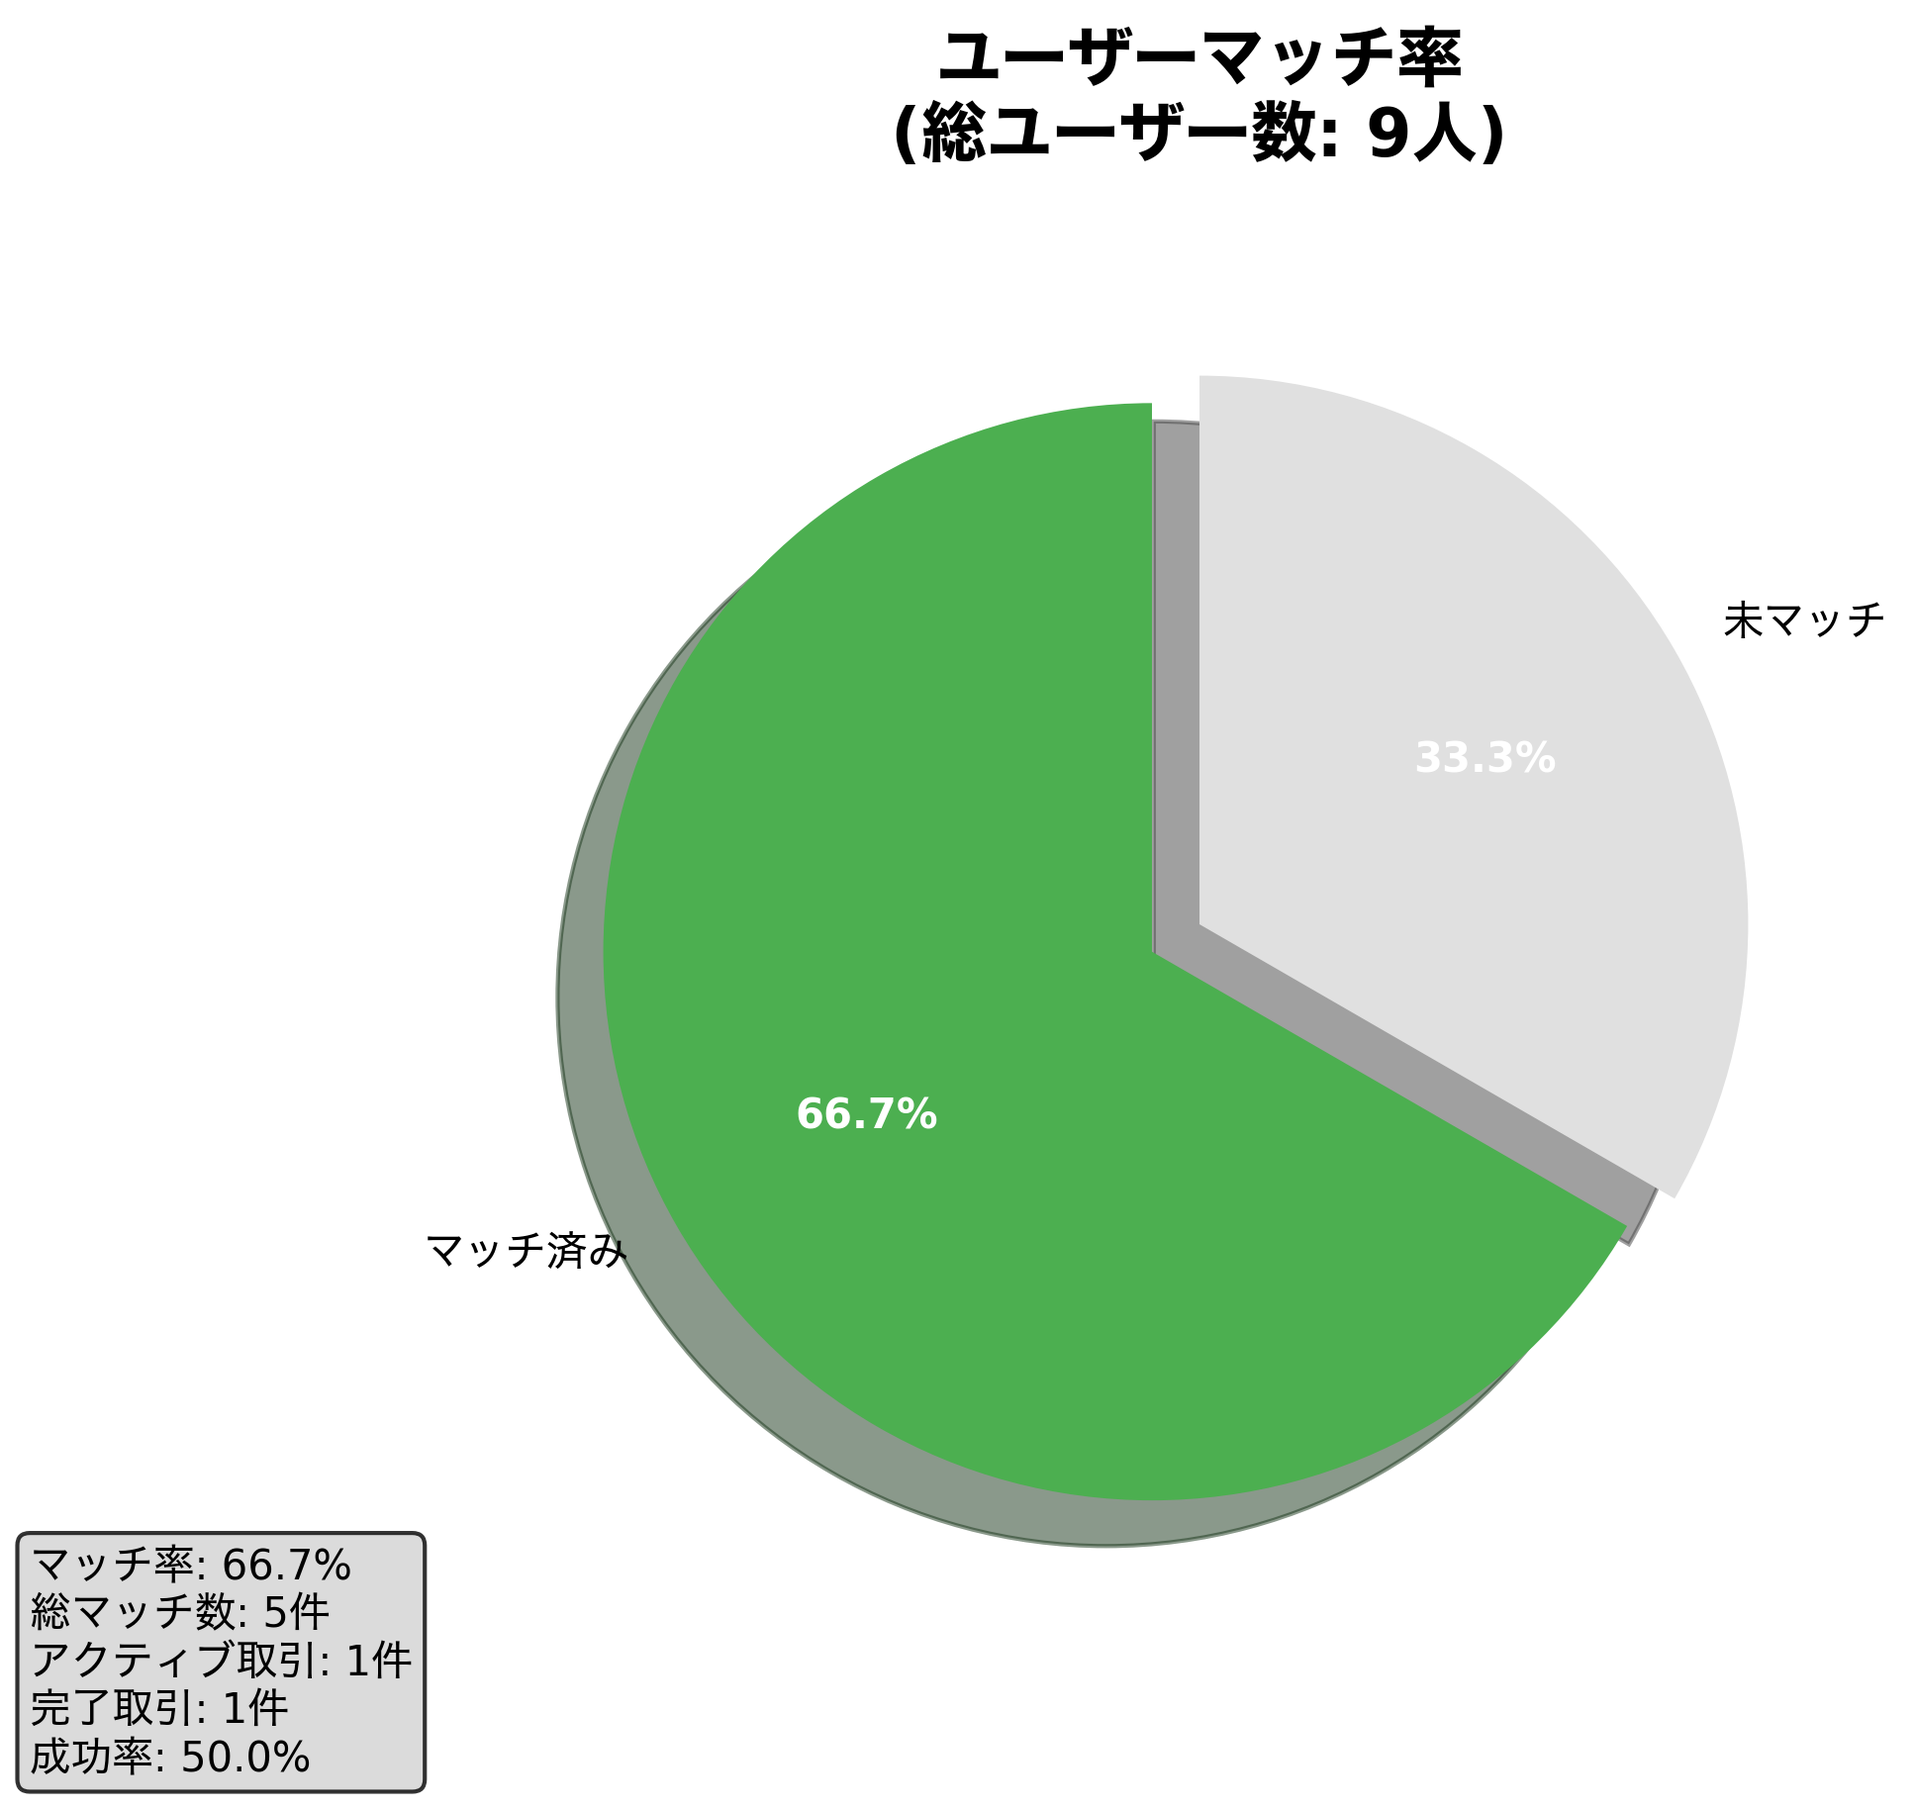
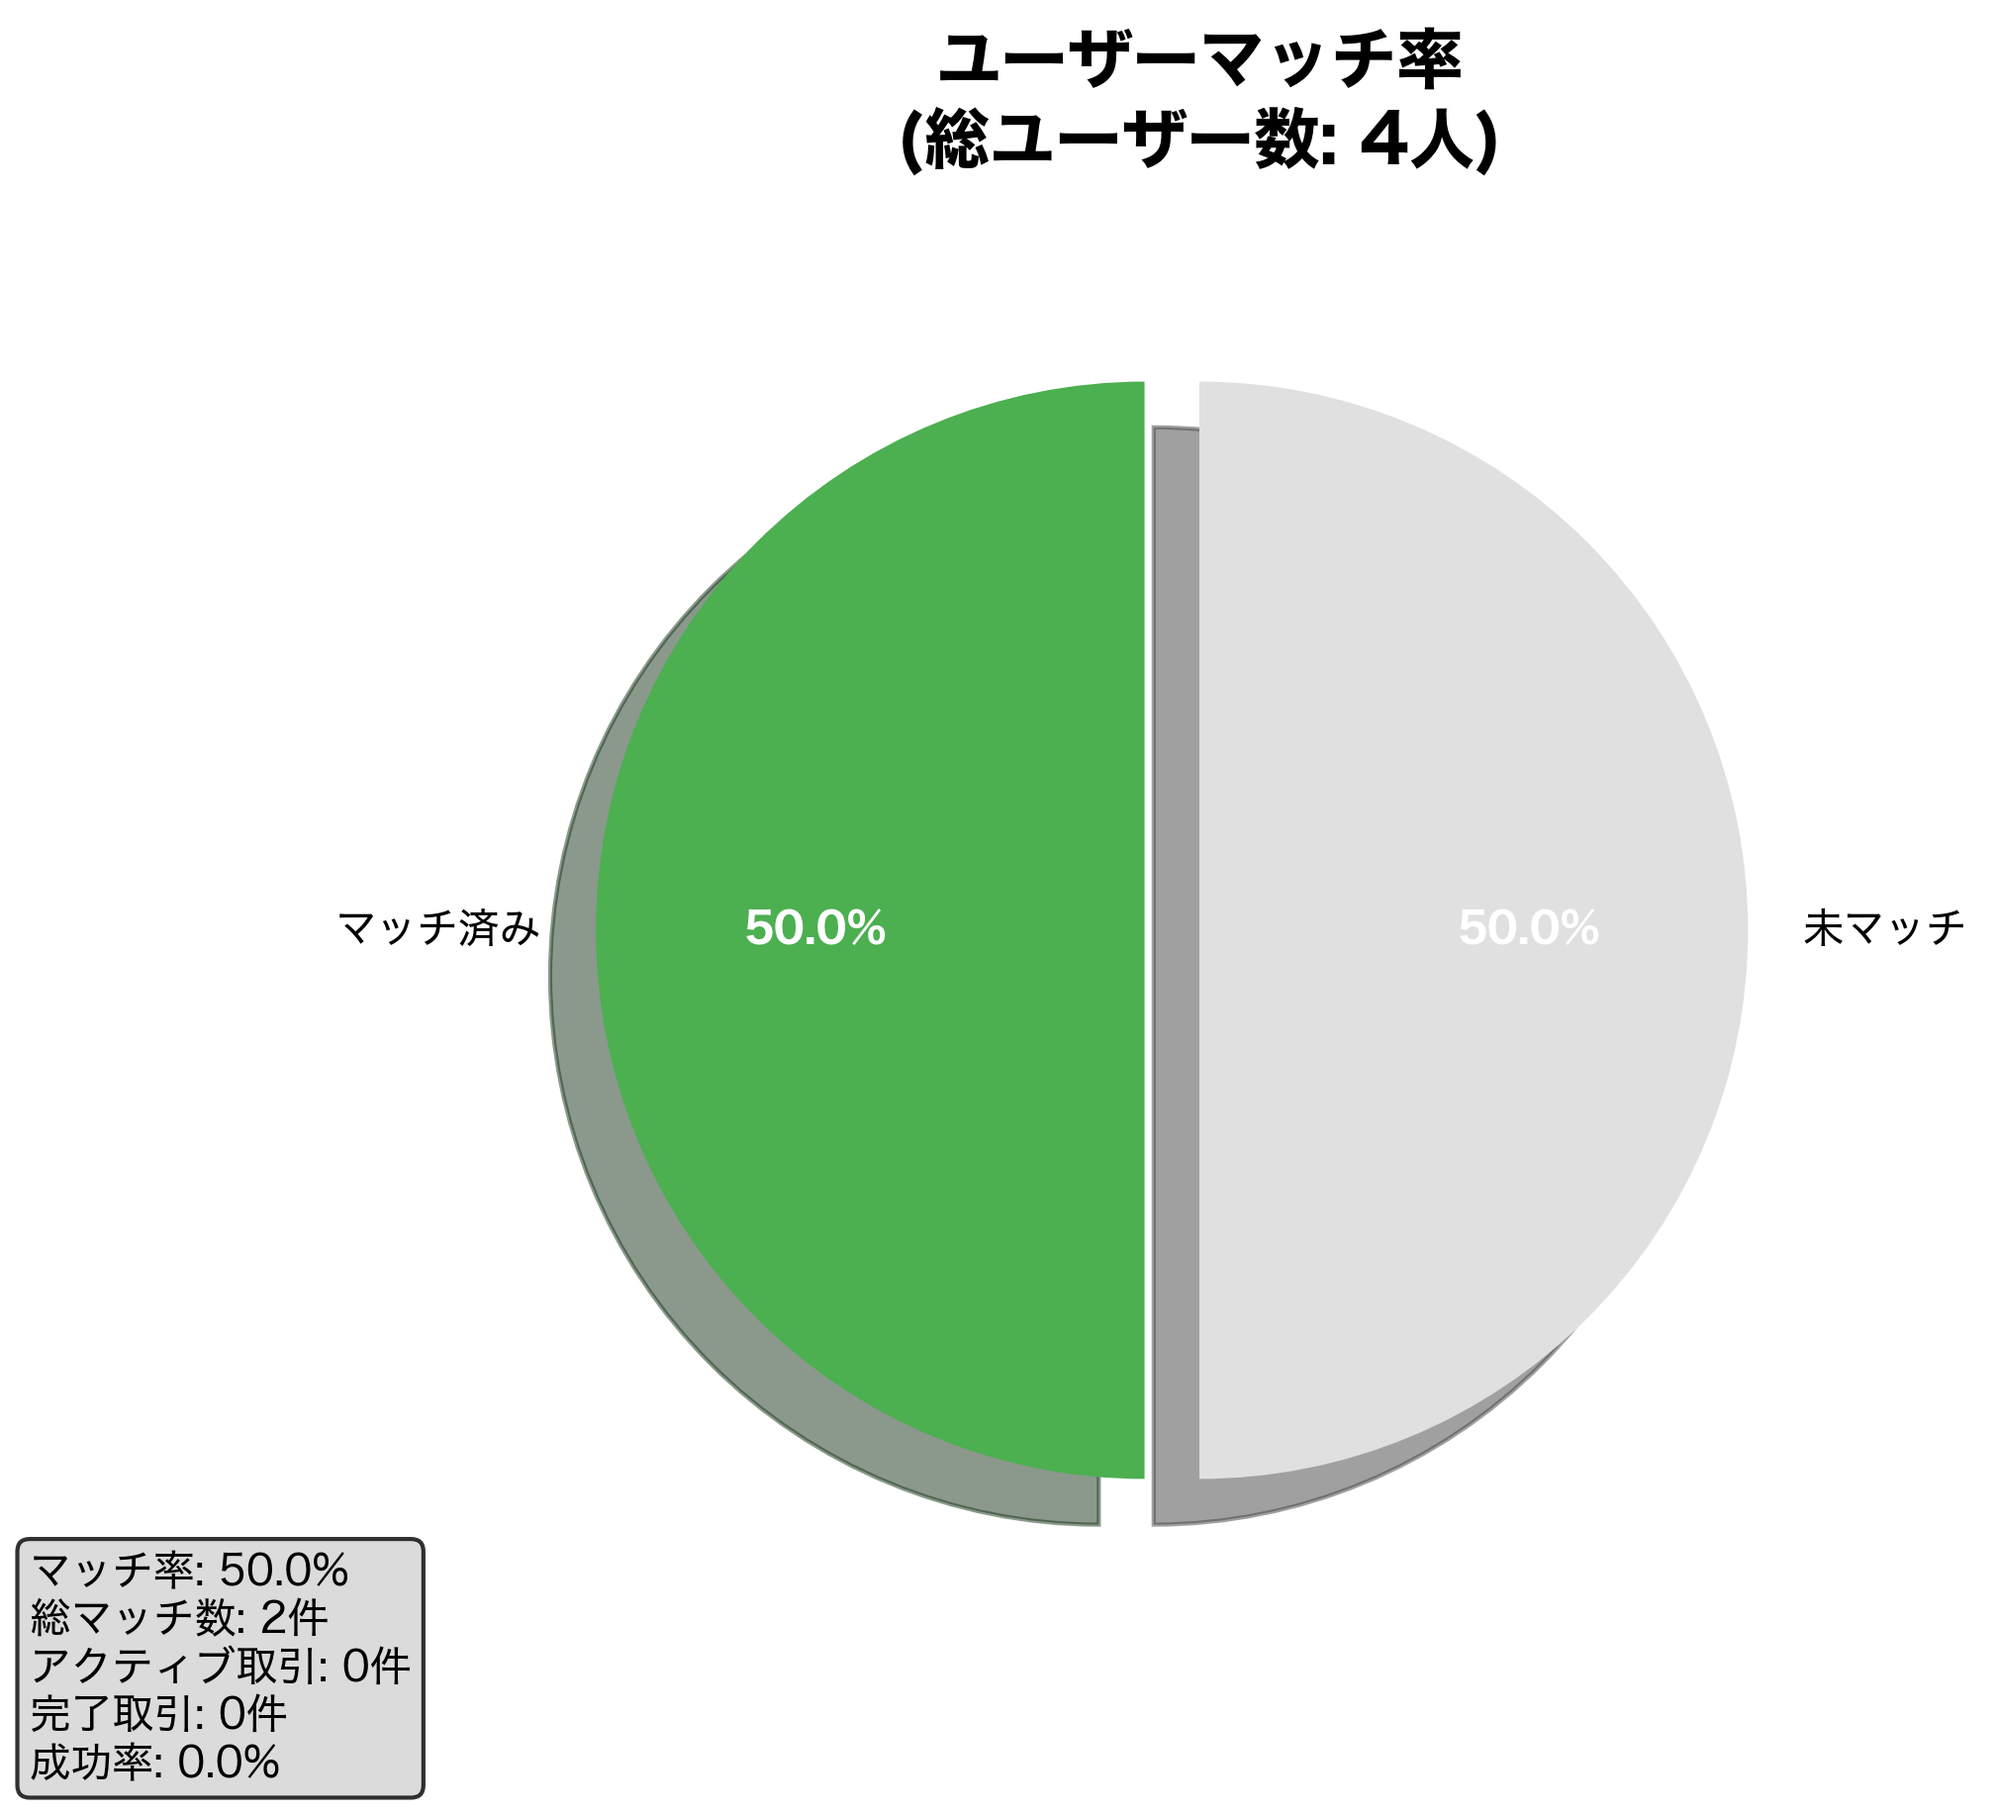
pythonリアルタイム分析機能追加

diff --git a/lib/tasks/scripts/generate_match_stats.py b/lib/tasks/scripts/generate_match_stats.py
@@ -1,0 +1,274 @@
+#!/usr/bin/env python3
+import matplotlib
+matplotlib.use('Agg')  # GUIバックエンドを使わない設定
+import matplotlib.pyplot as plt
+import numpy as np
+import json
+import sys
+import os
+from datetime import datetime, timedelta
+import sqlite3
+
+# 日本語フォントの設定を簡素化（macOSのデフォルトフォントを使用）
+try:
+    # macOSで利用可能なフォントを試す
+    available_fonts = ['Hiragino Sans', 'Arial Unicode MS', 'AppleGothic', 'sans-serif']
+    for font in available_fonts:
+        try:
+            plt.rcParams['font.family'] = font
+            break
+        except:
+            continue
+    else:
+        # フォールバック
+        plt.rcParams['font.family'] = 'sans-serif'
+except:
+    plt.rcParams['font.family'] = 'sans-serif'
+
+def connect_to_db():
+    """データベースに接続"""
+    # 絶対パスを使用してデータベースに接続
+    script_dir = os.path.dirname(os.path.abspath(__file__))
+    db_path = os.path.join(script_dir, '..', '..', '..', 'storage', 'development.sqlite3')
+    db_path = os.path.abspath(db_path)
+    
+    print(f"Trying to connect to database at: {db_path}")
+    print(f"Database file exists: {os.path.exists(db_path)}")
+    
+    try:
+        conn = sqlite3.connect(db_path)
+        return conn
+    except sqlite3.Error as e:
+        print(f"Database connection error: {e}")
+        return None
+
+def get_match_statistics():
+    """マッチング統計を取得"""
+    conn = connect_to_db()
+    if not conn:
+        return None
+    
+    try:
+        cursor = conn.cursor()
+        
+        # 総ユーザー数
+        cursor.execute("SELECT COUNT(*) FROM users WHERE email != 'guest@example.com'")
+        total_users = cursor.fetchone()[0]
+        
+        # マッチング済みユーザー数
+        cursor.execute("""
+            SELECT COUNT(DISTINCT user_id) 
+            FROM (
+                SELECT user_id FROM matches WHERE status = 1
+                UNION
+                SELECT target_user_id as user_id FROM matches WHERE status = 1
+            )
+        """)
+        matched_users = cursor.fetchone()[0]
+        
+        # 総マッチ数
+        cursor.execute("SELECT COUNT(*) FROM matches WHERE status = 1")
+        total_matches = cursor.fetchone()[0]
+        
+        # アクティブな取引数
+        cursor.execute("SELECT COUNT(*) FROM deals WHERE status IN (0, 1, 2)")
+        active_deals = cursor.fetchone()[0]
+        
+        # 完了した取引数
+        cursor.execute("SELECT COUNT(*) FROM deals WHERE status = 3")
+        completed_deals = cursor.fetchone()[0]
+        
+        # 月別マッチング数（過去6ヶ月）
+        cursor.execute("""
+            SELECT 
+                strftime('%Y-%m', created_at) as month,
+                COUNT(*) as count
+            FROM matches 
+            WHERE status = 1 
+                AND created_at >= date('now', '-6 months')
+            GROUP BY strftime('%Y-%m', created_at)
+            ORDER BY month
+        """)
+        monthly_matches = cursor.fetchall()
+        
+        conn.close()
+        
+        # マッチ率を計算
+        match_rate = (matched_users / total_users * 100) if total_users > 0 else 0
+        success_rate = (completed_deals / (active_deals + completed_deals) * 100) if (active_deals + completed_deals) > 0 else 0
+        
+        return {
+            'total_users': total_users,
+            'matched_users': matched_users,
+            'match_rate': match_rate,
+            'total_matches': total_matches,
+            'active_deals': active_deals,
+            'completed_deals': completed_deals,
+            'success_rate': success_rate,
+            'monthly_matches': monthly_matches
+        }
+        
+    except sqlite3.Error as e:
+        print(f"Database query error: {e}")
+        if conn:
+            conn.close()
+        return None
+
+def generate_match_rate_chart(stats):
+    """マッチ率の円グラフを生成"""
+    if not stats:
+        return False
+    
+    # データ準備
+    matched = stats['matched_users']
+    unmatched = stats['total_users'] - matched
+    
+    labels = ['マッチ済み', '未マッチ']
+    sizes = [matched, unmatched]
+    colors = ['#4CAF50', '#E0E0E0']
+    explode = (0.1, 0)  # マッチ済みを強調
+    
+    # グラフ作成
+    fig, ax = plt.subplots(figsize=(8, 6))
+    wedges, texts, autotexts = ax.pie(sizes, explode=explode, labels=labels, colors=colors,
+                                      autopct='%1.1f%%', shadow=True, startangle=90)
+    
+    # スタイル調整
+    for autotext in autotexts:
+        autotext.set_color('white')
+        autotext.set_fontweight('bold')
+    
+    ax.set_title(f'ユーザーマッチ率\n(総ユーザー数: {stats["total_users"]}人)', 
+                fontsize=16, fontweight='bold', pad=20)
+    
+    # 統計情報を追加
+    info_text = f"""マッチ率: {stats['match_rate']:.1f}%
+総マッチ数: {stats['total_matches']}件
+アクティブ取引: {stats['active_deals']}件
+完了取引: {stats['completed_deals']}件
+成功率: {stats['success_rate']:.1f}%"""
+    
+    plt.figtext(0.02, 0.02, info_text, fontsize=10, 
+                bbox=dict(boxstyle="round,pad=0.3", facecolor="lightgray", alpha=0.8))
+    
+    # 保存パスを絶対パスで指定
+    script_dir = os.path.dirname(os.path.abspath(__file__))
+    output_path = os.path.join(script_dir, '..', '..', '..', 'app', 'assets', 'images', 'match_rate_chart.png')
+    output_path = os.path.abspath(output_path)
+    
+    # ディレクトリが存在しない場合は作成
+    os.makedirs(os.path.dirname(output_path), exist_ok=True)
+    
+    print(f"Saving chart to: {output_path}")
+    plt.savefig(output_path, dpi=300, bbox_inches='tight', facecolor='white')
+    plt.close()
+    
+    return True
+
+def generate_monthly_trend_chart(stats):
+    """月別マッチングトレンドグラフを生成"""
+    if not stats or not stats['monthly_matches']:
+        return False
+    
+    # データ準備
+    months = []
+    counts = []
+    
+    for month, count in stats['monthly_matches']:
+        months.append(month)
+        counts.append(count)
+    
+    # 足りない月を補完
+    if len(months) < 6:
+        current_date = datetime.now()
+        for i in range(6):
+            month_str = (current_date - timedelta(days=30*i)).strftime('%Y-%m')
+            if month_str not in months:
+                months.insert(0, month_str)
+                counts.insert(0, 0)
+        
+        # ソート
+        combined = list(zip(months, counts))
+        combined.sort()
+        months, counts = zip(*combined)
+    
+    # グラフ作成
+    fig, ax = plt.subplots(figsize=(10, 6))
+    bars = ax.bar(months, counts, color='#2196F3', alpha=0.7)
+    
+    # データラベル追加
+    for bar in bars:
+        height = bar.get_height()
+        if height > 0:
+            ax.text(bar.get_x() + bar.get_width()/2., height,
+                   f'{int(height)}',
+                   ha='center', va='bottom', fontweight='bold')
+    
+    ax.set_title('月別マッチング数推移', fontsize=16, fontweight='bold', pad=20)
+    ax.set_xlabel('月', fontsize=12)
+    ax.set_ylabel('マッチング数', fontsize=12)
+    ax.grid(True, alpha=0.3)
+    
+    # x軸のラベルを見やすく
+    plt.xticks(rotation=45)
+    
+    # 保存パスを絶対パスで指定
+    script_dir = os.path.dirname(os.path.abspath(__file__))
+    output_path = os.path.join(script_dir, '..', '..', '..', 'app', 'assets', 'images', 'monthly_trend_chart.png')
+    output_path = os.path.abspath(output_path)
+    
+    # ディレクトリが存在しない場合は作成
+    os.makedirs(os.path.dirname(output_path), exist_ok=True)
+    
+    print(f"Saving trend chart to: {output_path}")
+    plt.savefig(output_path, dpi=300, bbox_inches='tight', facecolor='white')
+    plt.close()
+    
+    return True
+
+def main():
+    """メイン処理"""
+    print("マッチング統計グラフを生成中...")
+    
+    # 統計データ取得
+    stats = get_match_statistics()
+    if not stats:
+        print("統計データの取得に失敗しました")
+        sys.exit(1)
+    
+    # グラフ生成
+    success1 = generate_match_rate_chart(stats)
+    success2 = generate_monthly_trend_chart(stats)
+    
+    if success1 and success2:
+        print("グラフの生成が完了しました")
+        
+        # 統計データをJSONで出力
+        stats_json = {
+            'total_users': stats['total_users'],
+            'match_rate': round(stats['match_rate'], 1),
+            'total_matches': stats['total_matches'],
+            'success_rate': round(stats['success_rate'], 1),
+            'generated_at': datetime.now().isoformat()
+        }
+        
+        # JSONファイルの保存パスを絶対パスで指定
+        script_dir = os.path.dirname(os.path.abspath(__file__))
+        json_path = os.path.join(script_dir, '..', '..', '..', 'public', 'match_stats.json')
+        json_path = os.path.abspath(json_path)
+        
+        # ディレクトリが存在しない場合は作成
+        os.makedirs(os.path.dirname(json_path), exist_ok=True)
+        
+        print(f"Saving JSON to: {json_path}")
+        with open(json_path, 'w', encoding='utf-8') as f:
+            json.dump(stats_json, f, ensure_ascii=False, indent=2)
+        
+        print(f"統計データ: {stats_json}")
+        sys.exit(0)
+    else:
+        print("グラフの生成に失敗しました")
+        sys.exit(1)
+
+if __name__ == "__main__":
+    main()
